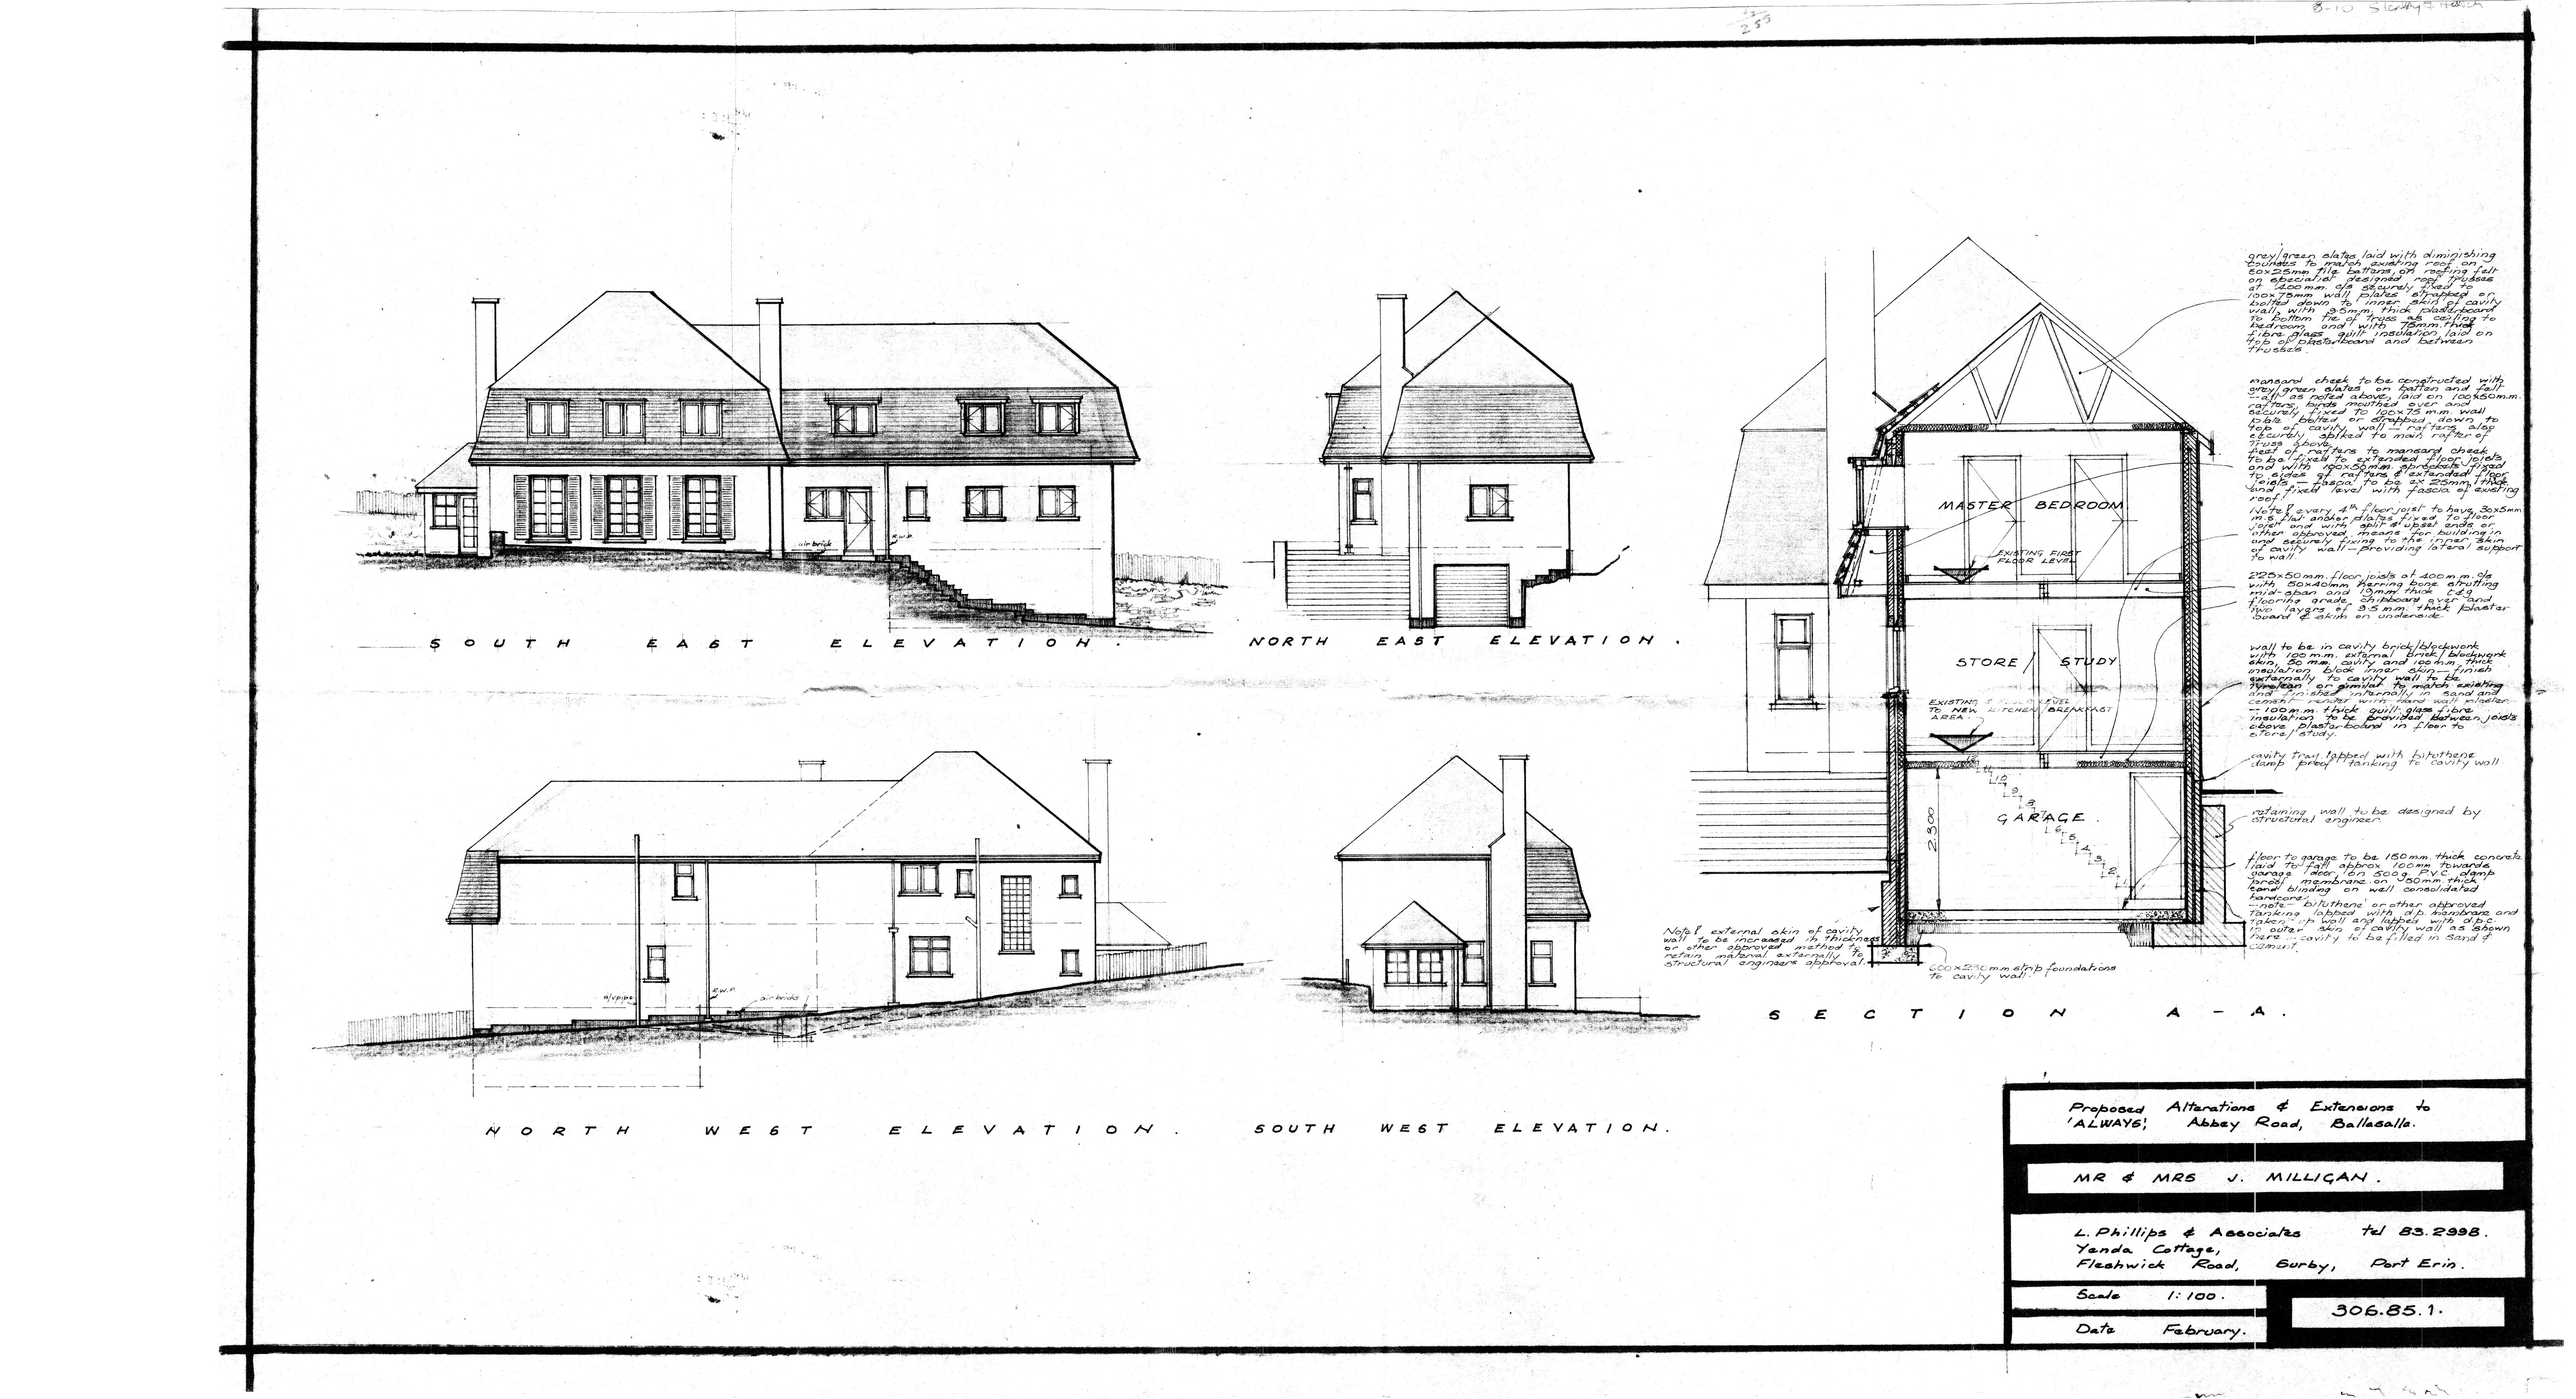
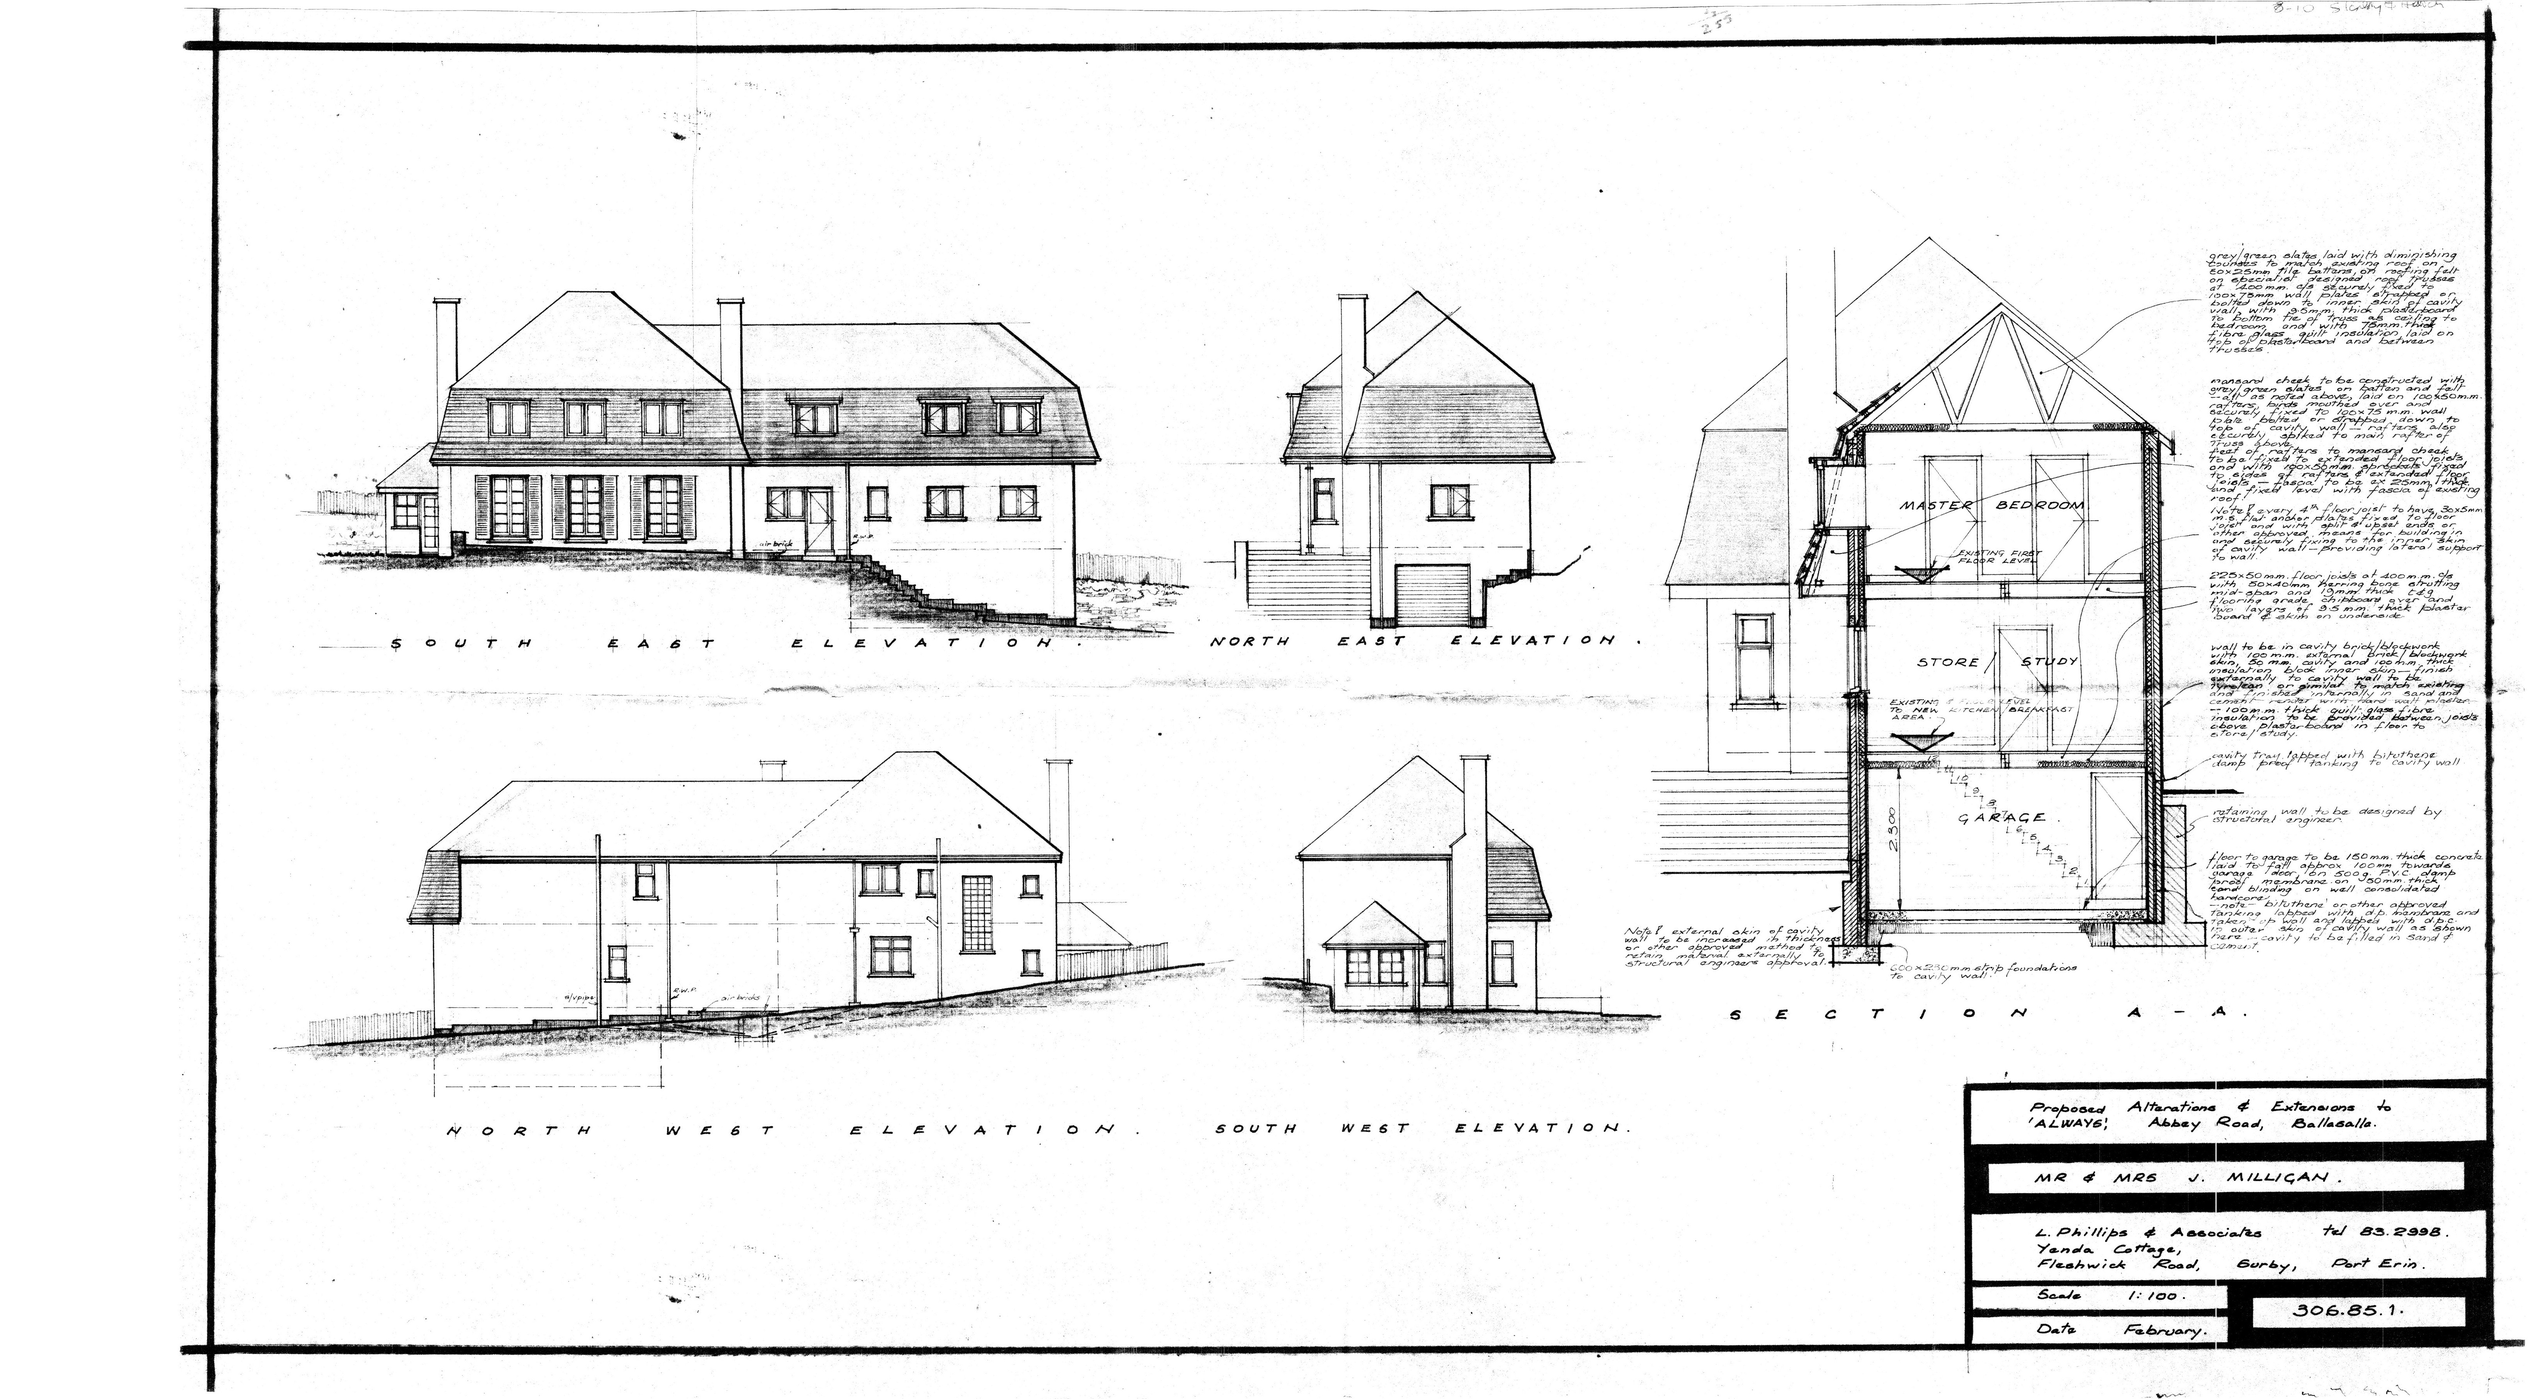
Crop elevation figure, correct Appendix F source descriptions (Malew Commission originals vs PRO copies)

diff --git a/index.html b/index.html
@@ -1463,22 +1463,22 @@ m. Lillian Maude SIMCOCKS (? &ndash; 18 Feb 1963)
     <h2>Planning</h2>
     <h3>PA 85/216 &mdash; the 1985 extension</h3>
 
-    <p>Planning application PA 85/216 was approved by the Malew Commissioners on 22 March 1985 &mdash; thirty-eight days after Sydney James Milligan completed the purchase of Always. The application is held in two forms: Public Records Office microfilm scans of the individual drawing sheets, and original documents and drawings rescued from the Malew Commission. Click any thumbnail to enlarge; the PDF link opens the complete document.</p>
+    <p>Planning application PA 85/216 was approved by the Malew Commissioners on 22 March 1985 &mdash; thirty-eight days after Sydney James Milligan completed the purchase of Always. The collection holds two distinct sets of material. The architectural drawings are high-quality scans of the <em>original</em> drawings, rescued from the Malew Commission before they were destroyed &mdash; the only surviving originals of this application. The application documents are Public Records Office copies: microfilm scans of the records the PRO held, as the PRO itself retained no originals. The survival of the Malew Commission drawings makes this collection considerably richer than the public archive alone allows. Click any thumbnail to enlarge; the PDF link opens the complete document.</p>
 
-    <h4>Application documents</h4>
+    <h4>Application documents <em style="font-size:0.85em;color:#8a7d6a;font-style:italic;">(Public Records Office &mdash; microfilm copies only)</em></h4>
     <div class="deed-card" id="plan-85-216-docs">
-      <div class="deed-card-header"><span class="deed-ref">PA 85/216</span><span class="deed-type">Application &amp; correspondence</span></div>
-      <p class="deed-parties">Applicant: J. Milligan &mdash; Architects: L. Phillips &amp; Associates, Port Erin &mdash; Approved 22 March 1985</p>
+      <div class="deed-card-header"><span class="deed-ref">PA 85/216</span><span class="deed-type">PRO microfilm copies &mdash; lower quality</span></div>
+      <p class="deed-parties">Public Records Office copies &mdash; microfilm scans only; PRO held no original documents. Applicant: J. Milligan &mdash; Architects: L. Phillips &amp; Associates, Port Erin</p>
       <div class="deed-docs">
         <div class="deed-doc"><img src="planning/pa-85-216/application-documents-thumb.jpg" data-lightbox alt="Planning application documents, PA 85/216" loading="lazy"><div class="deed-doc-label">Application docs</div><a href="planning/pa-85-216/application-documents.pdf" class="deed-pdf-link" target="_blank">PDF&thinsp;↗</a></div>
         <div class="deed-doc"><img src="planning/pa-85-216/application-drawings-thumb.jpg" data-lightbox alt="Application drawings, PA 85/216" loading="lazy"><div class="deed-doc-label">Application drawings</div><a href="planning/pa-85-216/application-drawings.pdf" class="deed-pdf-link" target="_blank">PDF&thinsp;↗</a></div>
       </div>
     </div>
 
-    <h4>Architectural drawings <em style="font-size:0.85em;color:#8a7d6a;font-style:italic;">(Public Records Office microfilm scans)</em></h4>
+    <h4>Original architectural drawings <em style="font-size:0.85em;color:#8a7d6a;font-style:italic;">(Malew Commission &mdash; originals, high quality)</em></h4>
     <div class="deed-card" id="plan-85-216">
-      <div class="deed-card-header"><span class="deed-ref">PA 85/216</span><span class="deed-type">Drawings</span></div>
-      <p class="deed-parties">L. Phillips &amp; Associates &mdash; lower ground floor, ground floor, first floor &amp; elevations</p>
+      <div class="deed-card-header"><span class="deed-ref">PA 85/216</span><span class="deed-type">Original drawings &mdash; high quality</span></div>
+      <p class="deed-parties">Original drawings rescued from Malew Commission before destruction &mdash; high-quality scans by the present owner. L. Phillips &amp; Associates: lower ground floor, ground floor, first floor &amp; elevations</p>
       <div class="deed-docs">
         <div class="deed-doc"><img src="planning/pa-85-216/lower-ground-floor-scan-thumb.jpg" data-lightbox alt="Lower ground floor plan, PA 85/216" loading="lazy"><div class="deed-doc-label">Lower ground floor</div><a href="planning/pa-85-216/lower-ground-floor-scan.pdf" class="deed-pdf-link" target="_blank">PDF&thinsp;↗</a></div>
         <div class="deed-doc"><img src="planning/pa-85-216/ground-floor-scan-thumb.jpg" data-lightbox alt="Ground floor plan, PA 85/216" loading="lazy"><div class="deed-doc-label">Ground floor</div><a href="planning/pa-85-216/ground-floor-scan.pdf" class="deed-pdf-link" target="_blank">PDF&thinsp;↗</a></div>
